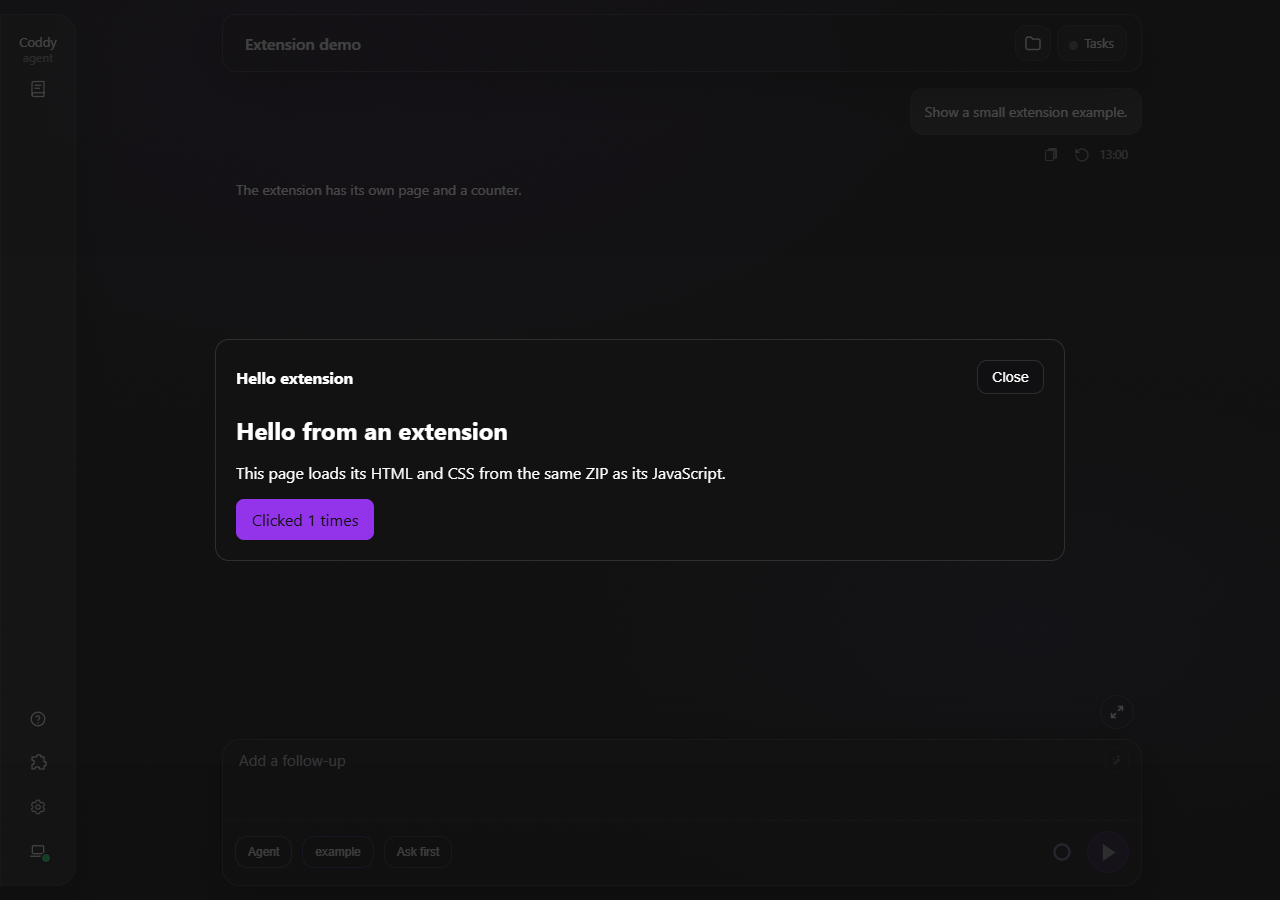
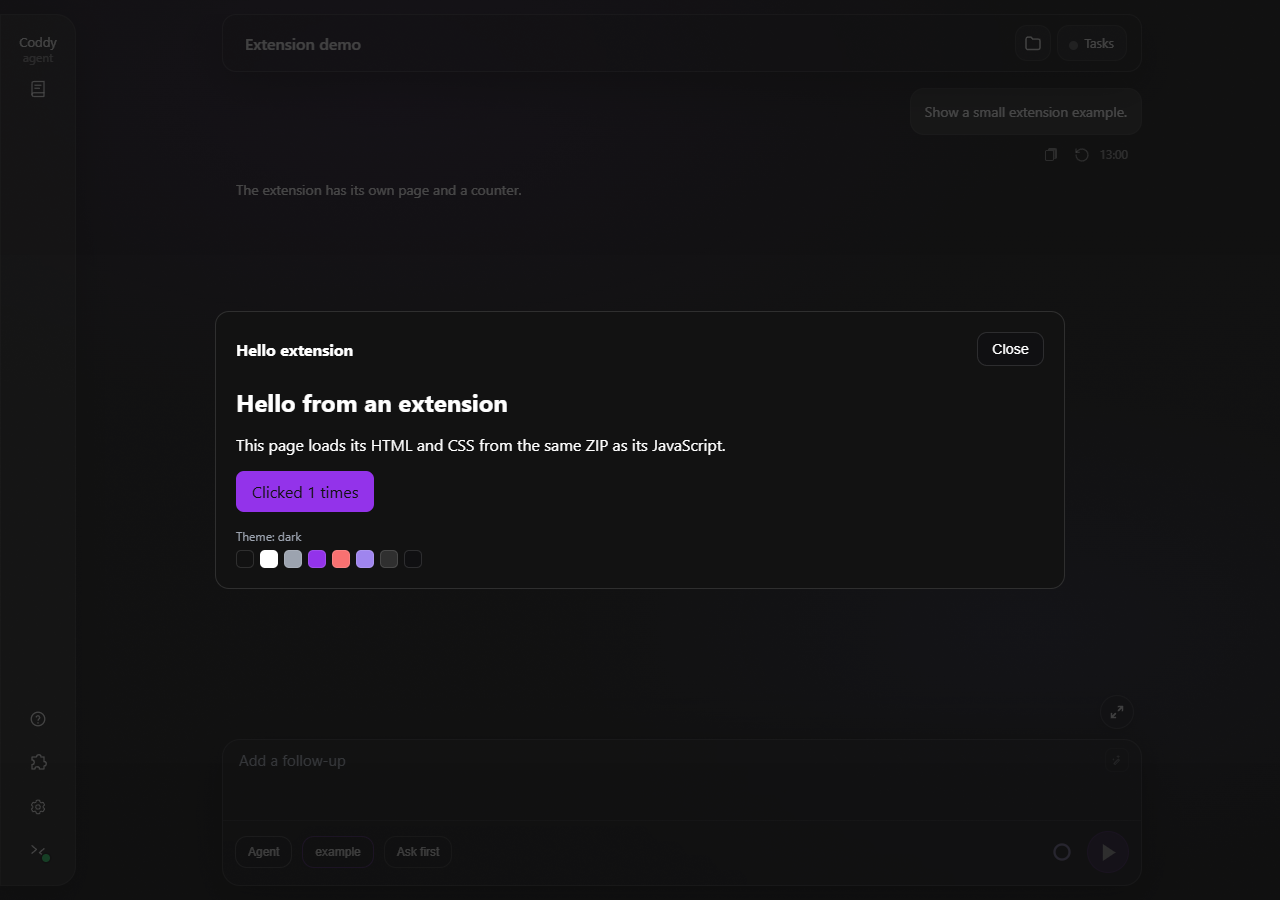
docs(extensions): describe theme colours, in both languages

Changed region(s): [[0.1875, 0.3733, 0.5625, 0.6533], [0.75, 0.3733, 0.8125, 0.4356]]

diff --git a/docs/ru/features/extensions.md b/docs/ru/features/extensions.md
@@ -2,7 +2,7 @@
 
 Веб-интерфейс загружает расширения на JavaScript, которые устанавливает оператор. Откройте **Расширения** в меню навигации или **Настройки → Расширения**, чтобы установить ZIP и включить или выключить расширения.
 
-Расширение может добавлять страницы и действия меню, обрабатывать входящие данные хода, наблюдать за событиями жизненного цикла, оформлять вызовы MCP и добавлять поля в существующие разделы настроек. Первая версия поддерживает интерфейс браузера. Нативные исполняемые файлы, агентные инструменты, элементы поля ввода и каталоги расширений из [issue о расширениях](https://github.com/coddy-project/coddy-agent/issues/347) и [расширенной спецификации](https://gist.github.com/hijera/95b016e1721608e8c3974fe3b80e29dc) пока не реализованы.
+Расширение может добавлять страницы и действия меню, обрабатывать входящие данные хода, наблюдать за событиями жизненного цикла, отрисовывать вызовы MCP, рисовать цветами темы приложения и добавлять поля в существующие разделы настроек. Первая версия поддерживает интерфейс браузера. Нативные исполняемые файлы, агентные инструменты, элементы поля ввода и каталоги расширений из [issue о расширениях](https://github.com/coddy-project/coddy-agent/issues/347) и [расширенной спецификации](https://gist.github.com/hijera/95b016e1721608e8c3974fe3b80e29dc) пока не реализованы.
 
 Начните с короткого руководства ["Ваше первое расширение на JavaScript"](../tutorials/first-extension.md) или откройте [указатель примеров](../../../examples/extensions/README.md).
 
@@ -56,7 +56,7 @@
 
 ![Страница, открытая расширением Hello](../../assets/extensions/extensions-page-dark-1280.png)
 
-*Страница расширения с HTML, CSS и JavaScript-счётчиком.*
+*Страница расширения с HTML, CSS, JavaScript-счётчиком и образцами цветов темы.*
 
 ```js
 export function activate(coddy) {
@@ -85,6 +85,8 @@ export function activate(coddy) {
 | `coddy.assets.text(path)` | Загружает UTF-8-файл из конкретного включённого пакета через API с аутентификацией. |
 | `coddy.net.fetch(url, options?)` | Отправляет HTTP(S)-запрос с сервера Coddy и возвращает `Response` с загруженным телом. |
 | `coddy.events.on(type, listener)` | Наблюдает за `tabChanged`, `stepEnded` или `turnEnded`. Возвращает дескриптор с методом `remove()`. |
+| `coddy.theme.get()` | Текущая тема: идентификатор, режим `light`/`dark` и вычисленные цвета, которыми рисует расширение. Замороженный снимок. |
+| `coddy.theme.onChange(listener)` | Наблюдает за сменой темы; обработчик получает новый замороженный снимок. Возвращает дескриптор с методом `remove()`. |
 | `coddy.ui.registerToolRenderer({id, server?, tool?, mount})` | Заменяет представление подходящих вызовов MCP; исходные данные остаются доступны. |
 | `coddy.settings.registerField(field)` | Добавляет скалярное поле в существующий раздел настроек. Возвращает дескриптор для обновления и удаления. |
 | `coddy.settings.get(id)`, `coddy.settings.set(id, value)` | Читает или сохраняет значение конфигурации расширения. Оба метода асинхронны; `set(id, null)` удаляет сохранённое значение. |
@@ -163,6 +165,40 @@ coddy.ui.registerToolRenderer({
 Верните `{update(call), dispose()}`, чтобы сохранить тот же DOM при изменении входных данных, статуса или результата. `mount` и `update` должны завершаться синхронно. Если `mount` возвращает только функцию очистки или ничего, он вызывается заново при изменении данных. Приложение вызывает очистку при замене, удалении строки из окна транскрипта или завершении работы расширения. Исключение удаляет сбойную регистрацию и восстанавливает следующее подходящее представление либо обычный вид. Ошибки появляются в настройках.
 
 Под собственным представлением остаётся пункт **Исходные данные вызова инструмента**, включая исходный ввод, вывод и обычные вложения. Приложение по-прежнему управляет запросами разрешений и показом вопросов. Собственная карточка меняет отображение в этом браузере; она не меняет аргументы и результаты инструментов, разрешения или сохранённую историю.
+
+## Цвета темы
+
+![Страница расширения Hello в светлой теме](../../assets/extensions/extensions-page-light-1280.png)
+
+*Та же страница в светлой теме - образцы цветов рисует `coddy.theme`, а кнопку и надписи рисуют CSS-переменные темы.*
+
+Стили расширения добавляются в документ приложения, поэтому CSS-переменные документа содержат цвета текущей темы. Рисуйте этими переменными - и внешний вид подстроится под любую из семи тем.
+
+| Переменная | Цвет |
+| --- | --- |
+| `--bg` | Фон приложения и страницы окна расширения. |
+| `--text` | Основной текст. |
+| `--muted` | Дополнительный текст и подписи. |
+| `--accent` | Акцент: выбранный элемент управления, основная кнопка. |
+| `--coddy-danger` | Разрушающие действия и сбои. |
+| `--coddy-link` | Ссылки в тексте. |
+| `--coddy-glass-panel-border` | Рамка карточки или панели. |
+| `--coddy-glass-panel-bg` | Матовый фон карточки или панели. |
+
+Если рисуете вне CSS - на canvas или вычисленным в коде цветом - та же палитра доступна через `coddy.theme`.
+
+```js
+const paint = (theme) => {
+  label.textContent = `Theme: ${theme.id}`;
+  context.fillStyle = theme.colors.accent;
+};
+paint(coddy.theme.get());
+const watched = coddy.theme.onChange(paint);
+```
+
+`coddy.theme.get()` возвращает замороженный снимок. `id` содержит идентификатор темы (`dark`, `light`, `midnight`, `solarized-dark`, `monokai`, `nord` или `rose-pine`), `mode` - `light` или `dark`, а `colors` сопоставляет `bg`, `text`, `muted`, `accent`, `danger`, `link`, `border` и `surface` вычисленным цветам (`rgb()` или `rgba()`, а для записи с `color-mix()` - `color(srgb ...)`), которые одинаково подходят и canvas, и стилю элемента. `surface` - матовый фон `--coddy-glass-panel-bg`, `border` - его рамка.
+
+`coddy.theme.onChange(listener)` передаёт новый замороженный снимок при каждой смене темы и возвращает дескриптор с методом `remove()`. Снимки доставляются по идентификаторам расширений в возрастающем ASCII-порядке, затем по порядку регистрации. Приложение обрабатывает отклонённые промисы, удаляет сбойный обработчик и показывает его ошибку в настройках - так же, как для событий жизненного цикла. Сигнал завершения работы расширения удаляет обработчики; `get` и `onChange` прекращаются при завершении работы расширения, как и регистрации. [Пример Hello](../../../examples/extensions/hello/main.js) рисует свои образцы цветов именно так.
 
 ## Поля в существующих разделах настроек
 
@@ -291,4 +327,4 @@ export function activate(coddy) {
 python -m zipfile -c stream-tools.zip manifest.json main.js
 ```
 
-<!-- docsgen:source sha256=3be43d6c76738392 -->
+<!-- docsgen:source sha256=239e6865e5c9c424 -->

diff --git a/docs/features/extensions.md b/docs/features/extensions.md
@@ -2,7 +2,7 @@
 
 The web UI can load operator-installed JavaScript extensions. Open **Extensions** in the navigation menu, or **Settings → Extensions**, to install a ZIP and switch extensions on or off.
 
-An extension can add pages and menu actions, process incoming turn data, observe lifecycle events, render MCP calls and add fields to existing Settings sections. This first version covers the browser UI. Native executables, agent tools, composer controls and marketplaces from the [extension issue](https://github.com/coddy-project/coddy-agent/issues/347) and [expanded specification](https://gist.github.com/hijera/95b016e1721608e8c3974fe3b80e29dc) are not implemented.
+An extension can add pages and menu actions, process incoming turn data, observe lifecycle events, render MCP calls, paint with the app's theme colours and add fields to existing Settings sections. This first version covers the browser UI. Native executables, agent tools, composer controls and marketplaces from the [extension issue](https://github.com/coddy-project/coddy-agent/issues/347) and [expanded specification](https://gist.github.com/hijera/95b016e1721608e8c3974fe3b80e29dc) are not implemented.
 
 Start with [Your first JavaScript extension](../tutorials/first-extension.md) for a short walkthrough, or use the [example index](../../examples/extensions/README.md).
 
@@ -56,7 +56,7 @@ An existing id cannot be overwritten. Remove the old package, install the new ZI
 
 ![A page opened by the Hello extension](../assets/extensions/extensions-page-dark-1280.png)
 
-*An extension-owned page with HTML, CSS and a JavaScript counter.*
+*An extension-owned page with HTML, CSS, a JavaScript counter and the theme swatches.*
 
 ```js
 export function activate(coddy) {
@@ -85,6 +85,8 @@ export function activate(coddy) {
 | `coddy.assets.text(path)` | Fetch a UTF-8 asset from the exact enabled package through the authenticated API. |
 | `coddy.net.fetch(url, options?)` | Send an HTTP(S) request from the Coddy server and receive a buffered `Response`. |
 | `coddy.events.on(type, listener)` | Observe `tabChanged`, `stepEnded` or `turnEnded`. Returns a `remove()` handle. |
+| `coddy.theme.get()` | The active theme: its id, `light`/`dark` mode and the resolved colours an extension paints with. A frozen snapshot. |
+| `coddy.theme.onChange(listener)` | Observe every theme switch; the listener gets the new frozen snapshot. Returns a `remove()` handle. |
 | `coddy.ui.registerToolRenderer({id, server?, tool?, mount})` | Replace the presentation of matching MCP calls; original details remain available. |
 | `coddy.settings.registerField(field)` | Add a scalar field to an existing Settings section. Returns an update/remove handle. |
 | `coddy.settings.get(id)`, `coddy.settings.set(id, value)` | Read or save an extension-owned configuration value. Both are asynchronous; `set(id, null)` removes the stored value. |
@@ -163,6 +165,40 @@ coddy.ui.registerToolRenderer({
 Return `{update(call), dispose()}` to keep the same DOM while input, status or result changes. `mount` and `update` must finish synchronously. A mount that returns only cleanup, or nothing, is mounted again for changed data. The host runs cleanup on replacement, transcript-window unmount or extension disposal. A thrown error removes the failing registration and restores the next matching renderer or the normal view. Errors appear in Settings.
 
 The host keeps **Original tool details** below the custom view, including raw input/output and the ordinary attachments. Permission and question prompts stay under host control. A custom card changes presentation in this browser; it changes no tool arguments, results, permissions or stored history.
+
+## Theme colours
+
+![The Hello extension page on the light theme](../assets/extensions/extensions-page-light-1280.png)
+
+*The same page on the light theme: its swatches are painted from `coddy.theme`, its button and labels from the theme's CSS variables.*
+
+An extension's styles are injected into the app's document, so its CSS variables are the theme's colours whatever theme is active. Paint with these variables and every one of the seven themes follows.
+
+| Variable | The colour of |
+| --- | --- |
+| `--bg` | The app ground and the page of an extension window. |
+| `--text` | Primary text. |
+| `--muted` | Secondary text and captions. |
+| `--accent` | The accent: a selected control, a primary button. |
+| `--coddy-danger` | Destructive actions and failures. |
+| `--coddy-link` | Links in prose. |
+| `--coddy-glass-panel-border` | The border of a card or panel. |
+| `--coddy-glass-panel-bg` | The frosted ground of a card or panel. |
+
+Drawing outside CSS - a canvas, a colour computed in code - reads the same palette through `coddy.theme`.
+
+```js
+const paint = (theme) => {
+  label.textContent = `Theme: ${theme.id}`;
+  context.fillStyle = theme.colors.accent;
+};
+paint(coddy.theme.get());
+const watched = coddy.theme.onChange(paint);
+```
+
+`coddy.theme.get()` returns a frozen snapshot. `id` names the theme (`dark`, `light`, `midnight`, `solarized-dark`, `monokai`, `nord` or `rose-pine`), `mode` is `light` or `dark`, and `colors` maps `bg`, `text`, `muted`, `accent`, `danger`, `link`, `border` and `surface` to computed colours (`rgb()` or `rgba()`, and `color(srgb ...)` for a token written with `color-mix()`) that a canvas and an element style can both use. `surface` is the frosted ground of `--coddy-glass-panel-bg`, `border` its border.
+
+`coddy.theme.onChange(listener)` hands the new frozen snapshot on every theme switch and returns a `remove()` handle. Delivery runs by extension id in ascending ASCII order, then registration order. The host consumes rejected promises, removes a failing listener and reports its error in Settings, as it does for the lifecycle events. The lifetime signal removes listeners, and `get` and `onChange` stop with the lifetime the way registrations do. The [Hello example](../../examples/extensions/hello/main.js) paints its swatches this way.
 
 ## Fields in existing Settings sections
 

diff --git a/docs/assets/INDEX.md b/docs/assets/INDEX.md
@@ -30,7 +30,7 @@ Screenshots taken as evidence for a pull request do not belong here. Attach them
 Generated by `make docs`. "Used by" lists the files that reference the asset.
 
 <!-- docsgen:assets:start -->
-311 files, 72.3 MB in total.
+312 files, 72.4 MB in total.
 
 ### docs/assets
 
@@ -259,7 +259,8 @@ Generated by `make docs`. "Used by" lists the files that reference the asset.
 | `extensions-field-dark-1280.png` | 349 KB | docs/features/extensions.md, docs/ru/features/extensions.md |
 | `extensions-mcp-card-dark-1280.png` | 546 KB | docs/features/extensions.md, docs/ru/features/extensions.md |
 | `extensions-network-dark-1280.png` | 247 KB | docs/features/extensions.md, docs/ru/features/extensions.md |
-| `extensions-page-dark-1280.png` | 272 KB | docs/features/extensions.md, docs/ru/features/extensions.md |
+| `extensions-page-dark-1280.png` | 270 KB | docs/features/extensions.md, docs/ru/features/extensions.md |
+| `extensions-page-light-1280.png` | 93 KB | docs/features/extensions.md, docs/ru/features/extensions.md |
 | `extensions-settings-dark-1280.png` | 363 KB | docs/features/extensions.md, docs/ru/features/extensions.md |
 | `extensions-settings-light-1280.png` | 187 KB | docs/features/extensions.md, docs/ru/features/extensions.md |
 | `extensions-stream-dark-1280.png` | 269 KB | docs/features/extensions.md, docs/ru/features/extensions.md |
